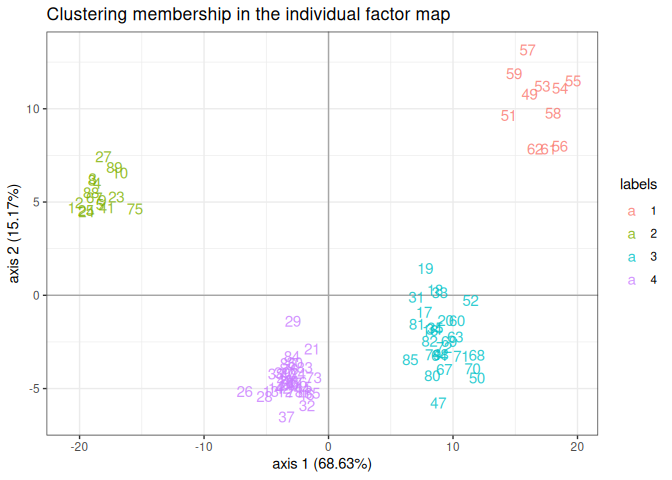
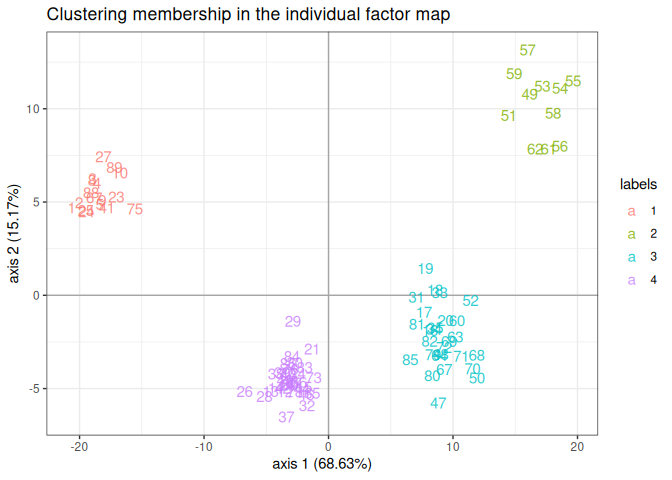
regenerate README with last version of the package

diff --git a/README.md b/README.md
@@ -233,8 +233,8 @@ table(cluster = myMixture$memberships, zone = barents$zone)
 
            zone
     cluster North South
-          1    11     0
-          2     1    17
+          1     1    17
+          2    11     0
           3    21     6
           4    11    22
 
